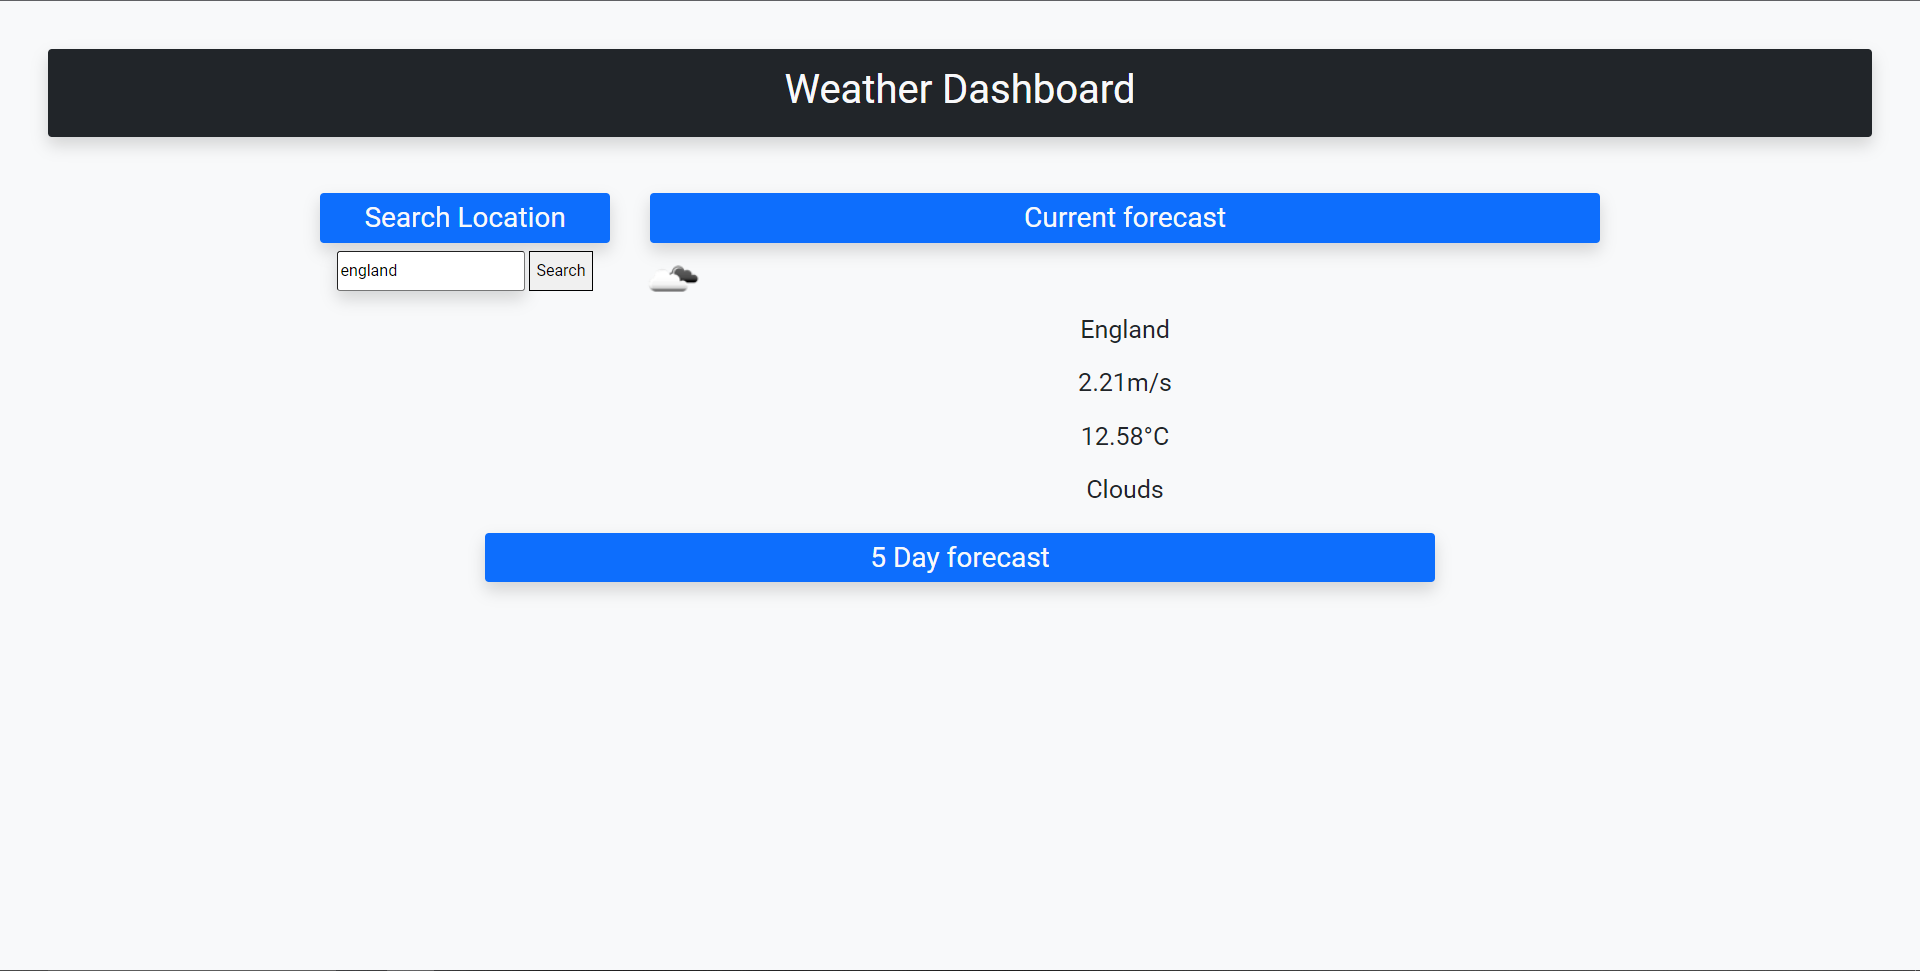
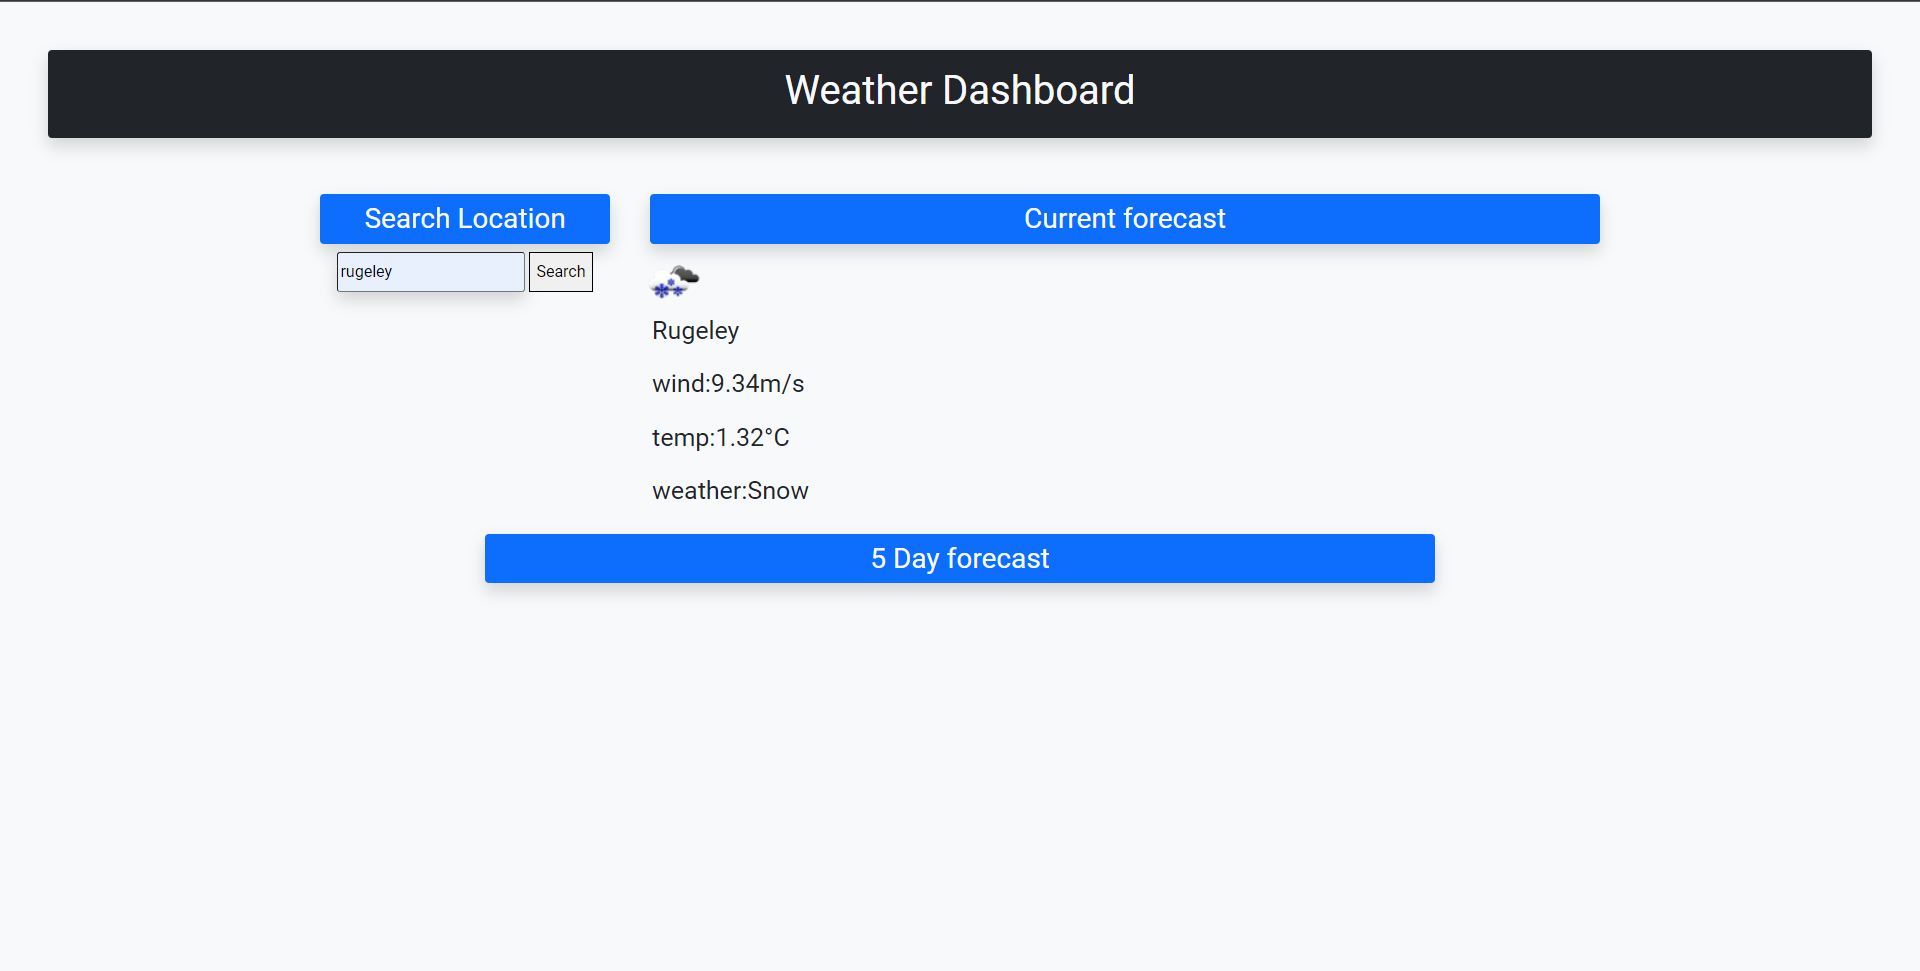
tweeks and comments added

diff --git a/assets/scrip.js b/assets/scrip.js
@@ -11,6 +11,7 @@ $(function () {
     var weathers = document.createElement('p');
     var icon1 = document.createElement('img')
 
+    // This gets the current weather forecast using the input and syntax provided by openweathermap API
     function currentWeather(e) {
         e.preventDefault();
         var input = $('.input').val();
@@ -27,14 +28,15 @@ $(function () {
             })
             .then(function (d) {
                 console.log(d);
+                // Here I am getting all of the information I want from the retrieved data and appending it where i want on the document
                 var weather = d.weather[0].main;
                 var temp = d.main.temp; // celcius
                 var windSpeed = d.wind.speed;  //meters per second
                 var name = d.name;
                 var iconCode = d.weather[0].icon;
-                weathers.textContent = weather;
-                temper.textContent = temp + '°C';
-                wind.textContent = windSpeed + 'm/s';
+                weathers.textContent = 'weather: ' + weather;
+                temper.textContent = 'temp: ' + temp + '°C';
+                wind.textContent = 'wind: ' + windSpeed + 'm/s';
                 name1.textContent = name;
                 icon1.setAttribute('src', 'http://openweathermap.org/img/w/' + iconCode + '.png');
                 currentSec.appendChild(icon1)
@@ -43,7 +45,7 @@ $(function () {
                 currentSec.appendChild(temper);
                 currentSec.appendChild(weathers);
                 console.log(weather)
-
+// here i am saving the recent search onto the local storage
                 var log = JSON.parse(localStorage.getItem("history")) || [];
                 if (log.length > 5) {
                     log.shift();
@@ -51,7 +53,7 @@ $(function () {
                 localStorage.setItem('Locations', JSON.stringify(input));
             })
     };
-
+// This is where I shall add the function for the 5 day forecast
     function fiveDay(e) {
         e.preventDefault();
         var input = $('.input').val();
@@ -68,7 +70,7 @@ $(function () {
             })
     };
 
-
+// Here im adding the eventlisteners to call the previous 2 functions
     btn.addEventListener('click', currentWeather);
     btn.addEventListener('click', fiveDay);
 

diff --git a/assets/style.css b/assets/style.css
@@ -10,7 +10,7 @@ input, button {
 }
 
 p {
-    align-self: center;
+    margin-left: 10px;
     font-size: 25px;
 }
 img {
